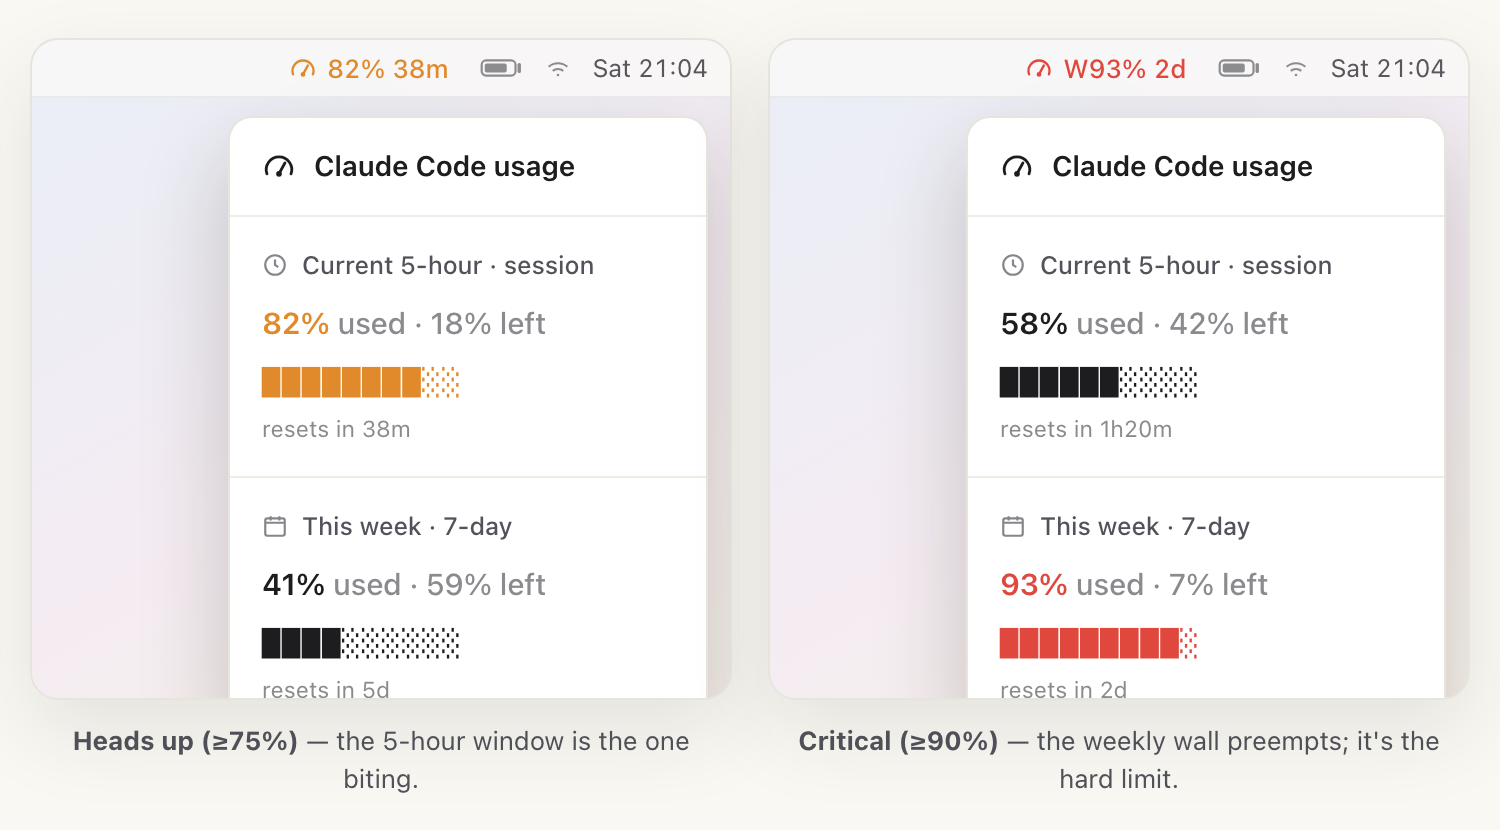
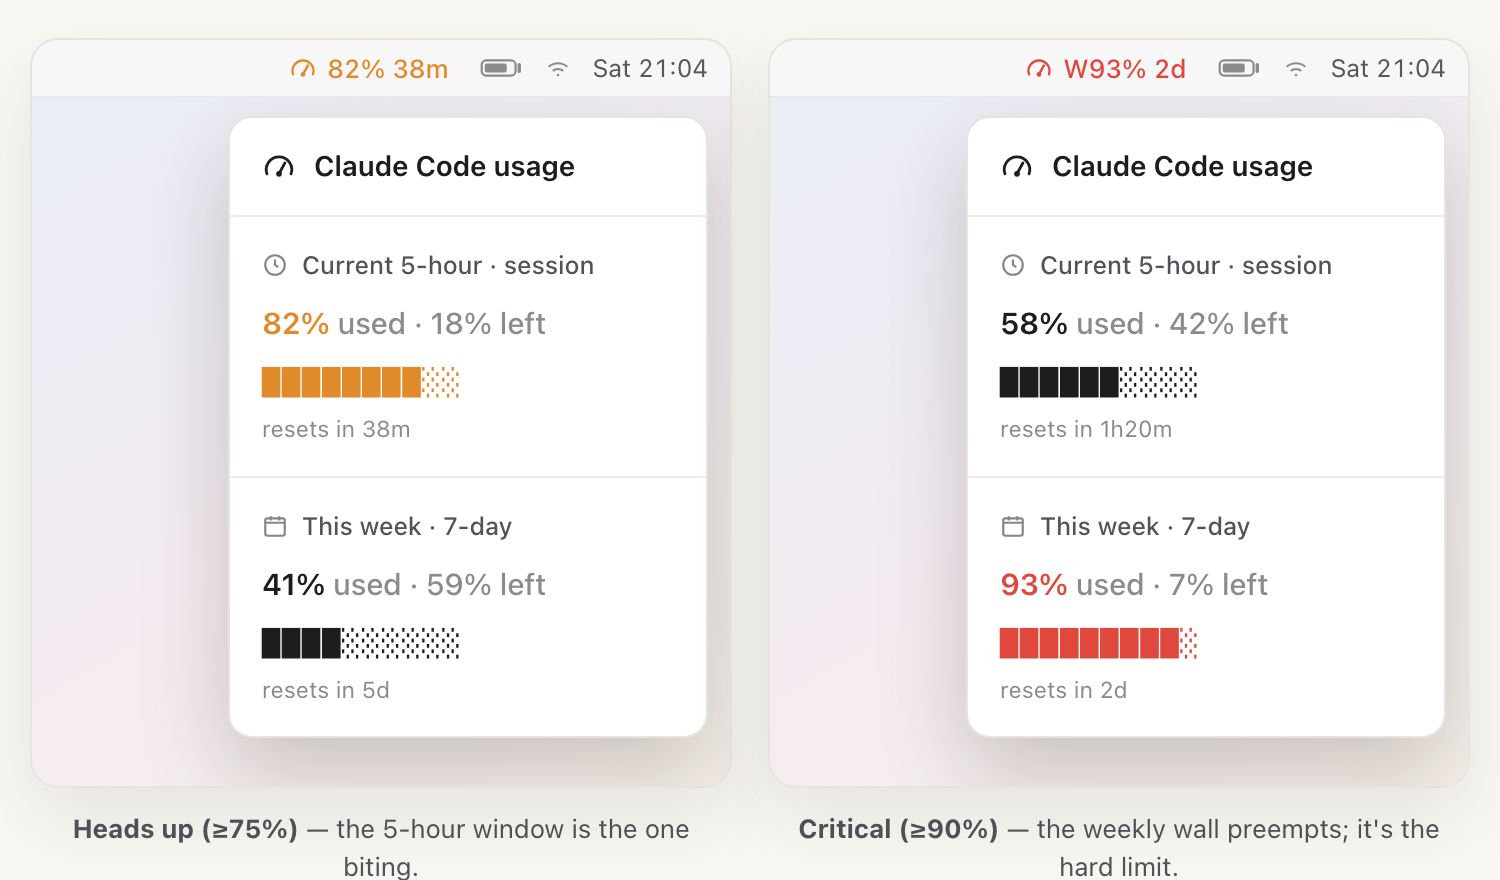
site: fix clipped state cards; lead with privacy, move feature details down
- taller mini-stage so the warning/critical dropdowns are no longer cut off
- swap sections: 'Built to be auditable' (the trust highlight) now leads; 'Why it's different' details moved below How-it-works
- drop the redundant 'Privacy first' feature card (covered by the privacy section)

diff --git a/site/index.html b/site/index.html
@@ -170,7 +170,7 @@
   .mini-bar .sysicon{opacity:.55}
   .mini-bar .clock{opacity:.82;font-variant-numeric:tabular-nums}
   .mini-bar .mbg{padding:2px 6px}
-  .mini-stage{position:relative;height:300px}
+  .mini-stage{position:relative;height:344px}
   @media(max-width:680px){.mini-stage{height:auto;padding-bottom:12px}}
   .mini-stage .dropdown{position:absolute;top:9px;right:11px;width:240px;box-shadow:0 18px 44px rgba(40,36,28,.22)}
   @media(max-width:680px){.mini-stage .dropdown{position:static;width:auto;margin:10px 11px 0;box-shadow:0 12px 30px rgba(40,36,28,.12)}}
@@ -420,50 +420,46 @@
   </div>
 </header>
 
-<!-- ============ FEATURES ============ -->
-<section id="features">
+<!-- ============ PRIVACY ============ -->
+<section id="privacy" class="privacy">
   <div class="wrap">
     <div class="sec-head">
-      <span class="eyebrow">Why it's different</span>
-      <h2>Small, honest, and out of your way</h2>
-      <p>It only speaks up when it matters — and when it does, it tells the truth.</p>
+      <span class="eyebrow">What it can and can't see</span>
+      <h2>Built to be auditable</h2>
+      <p>It's all readable bash and Python — nothing obfuscated, nothing hidden.</p>
     </div>
-    <div class="feat-grid">
+    <div class="priv-grid">
 
-      <div class="feat">
-        <span class="ico"><svg viewBox="0 0 24 24" fill="none" stroke="currentColor" stroke-width="2"><path d="M3.5 17.5a9 9 0 1 1 17 0"/><path d="M12 17.5 16.2 9.8"/><circle cx="12" cy="17.5" r="1.8" fill="currentColor"/></svg></span>
-        <h3>Status-aware minimalism</h3>
-        <p>When you have headroom it's silent — just the current 5-hour percentage, auto black/white to match your menu bar. Cross a threshold and it surfaces the window that's actually biting, with a color and a reset countdown.</p>
+      <div class="priv">
+        <span class="pico"><svg viewBox="0 0 24 24" fill="none" stroke="currentColor" stroke-width="2"><path d="M12 3 4 6v5c0 5 3.5 8 8 10 4.5-2 8-5 8-10V6Z"/><path d="m9 12 2 2 4-4"/></svg></span>
+        <div>
+          <h3>Token-only access</h3>
+          <p>Reads one OAuth token from the keychain entry <code>Claude Code-credentials</code> and sends it only to Anthropic, only to fetch usage.</p>
+        </div>
       </div>
 
-      <div class="feat">
-        <span class="ico"><svg viewBox="0 0 24 24" fill="none" stroke="currentColor" stroke-width="2"><path d="M21 12a9 9 0 1 1-3-6.7"/><path d="M21 3v6h-6"/><path d="M12 8v4l2.5 1.5"/></svg></span>
-        <h3>Self-healing tokens</h3>
-        <p>Claude Code doesn't refresh its keychain token while idle, so the usage API starts returning <code>401</code>. ClaudeGauge spots a near-expired token and runs one tiny headless <code>claude -p ok</code> from <code>/tmp</code> to renew it — so the gauge keeps working even when you've stepped away.</p>
+      <div class="priv">
+        <span class="pico"><svg viewBox="0 0 24 24" fill="none" stroke="currentColor" stroke-width="2"><path d="M2 12s3.5-7 10-7 10 7 10 7-3.5 7-10 7S2 12 2 12Z"/><path d="m4 4 16 16"/></svg></span>
+        <div>
+          <h3>Never reads your chats</h3>
+          <p>It never opens <code>~/.claude/projects</code>, your conversation logs, or any code file. Usage numbers only.</p>
+        </div>
       </div>
 
-      <div class="feat">
-        <span class="ico"><svg viewBox="0 0 24 24" fill="none" stroke="currentColor" stroke-width="2"><path d="M10.3 3.1a2 2 0 0 1 3.4 0l8 13.9a2 2 0 0 1-1.7 3H3.9a2 2 0 0 1-1.7-3Z"/><path d="M12 9v4M12 17h.01"/></svg></span>
-        <h3>Honestly stale</h3>
-        <p>If data is more than 15 minutes old, the title goes gray and grows a <code>~</code>, and the dropdown warns you. No tool lies to you with old numbers dressed up as live — ever.</p>
+      <div class="priv">
+        <span class="pico"><svg viewBox="0 0 24 24" fill="none" stroke="currentColor" stroke-width="2"><path d="m9 18-6-6 6-6M15 6l6 6-6 6"/></svg></span>
+        <div>
+          <h3>Open &amp; auditable</h3>
+          <p>Three short scripts in plain bash and Python — no minification, no binaries, no telemetry. Read every line before you run it.</p>
+        </div>
       </div>
 
-      <div class="feat">
-        <span class="ico"><svg viewBox="0 0 24 24" fill="none" stroke="currentColor" stroke-width="2"><rect x="4" y="10" width="16" height="11" rx="2"/><path d="M8 10V7a4 4 0 0 1 8 0v3"/></svg></span>
-        <h3>Privacy first</h3>
-        <p>It reads one OAuth token from your macOS keychain and calls one Anthropic usage endpoint — the same one behind <code>/usage</code>. It never opens <code>~/.claude/projects</code>, your conversations, or your code. No telemetry.</p>
-      </div>
-
-      <div class="feat">
-        <span class="ico"><svg viewBox="0 0 24 24" fill="none" stroke="currentColor" stroke-width="2"><rect x="3" y="4" width="18" height="14" rx="2"/><path d="M9 4v3a3 3 0 0 0 6 0V4"/></svg></span>
-        <h3>Notch-friendly</h3>
-        <p>On notched Macs the menu bar title stays under ~90px (about 11 characters). Go wider and the notch swallows your icon whole — so the display is engineered to stay short no matter the state.</p>
-      </div>
-
-      <div class="feat">
-        <span class="ico"><svg viewBox="0 0 24 24" fill="none" stroke="currentColor" stroke-width="2"><path d="M18 8a6 6 0 0 0-12 0c0 7-3 9-3 9h18s-3-2-3-9"/><path d="M13.7 21a2 2 0 0 1-3.4 0"/></svg></span>
-        <h3>Knows before you do</h3>
-        <p>A background agent polls on an adaptive schedule and fires a native macOS notification the moment you cross 75% or 90% — once per window, per cycle, so it nudges without nagging.</p>
+      <div class="priv">
+        <span class="pico"><svg viewBox="0 0 24 24" fill="none" stroke="currentColor" stroke-width="2"><path d="M9 11V7a3 3 0 0 1 6 0v4M5 11h14v9a1 1 0 0 1-1 1H6a1 1 0 0 1-1-1Z"/></svg></span>
+        <div>
+          <h3>MIT licensed</h3>
+          <p>Free to use, fork, and modify. Uninstall leaves your Claude Code credentials and data completely untouched.</p>
+        </div>
       </div>
 
     </div>
@@ -543,46 +539,44 @@
   </div>
 </section>
 
-<!-- ============ PRIVACY ============ -->
-<section id="privacy" class="privacy">
+<!-- ============ FEATURES ============ -->
+<section id="features">
   <div class="wrap">
     <div class="sec-head">
-      <span class="eyebrow">What it can and can't see</span>
-      <h2>Built to be auditable</h2>
-      <p>It's all readable bash and Python — nothing obfuscated, nothing hidden.</p>
+      <span class="eyebrow">Why it's different</span>
+      <h2>Small, honest, and out of your way</h2>
+      <p>It only speaks up when it matters — and when it does, it tells the truth.</p>
     </div>
-    <div class="priv-grid">
+    <div class="feat-grid">
 
-      <div class="priv">
-        <span class="pico"><svg viewBox="0 0 24 24" fill="none" stroke="currentColor" stroke-width="2"><path d="M12 3 4 6v5c0 5 3.5 8 8 10 4.5-2 8-5 8-10V6Z"/><path d="m9 12 2 2 4-4"/></svg></span>
-        <div>
-          <h3>Token-only access</h3>
-          <p>Reads one OAuth token from the keychain entry <code>Claude Code-credentials</code> and sends it only to Anthropic, only to fetch usage.</p>
-        </div>
+      <div class="feat">
+        <span class="ico"><svg viewBox="0 0 24 24" fill="none" stroke="currentColor" stroke-width="2"><path d="M3.5 17.5a9 9 0 1 1 17 0"/><path d="M12 17.5 16.2 9.8"/><circle cx="12" cy="17.5" r="1.8" fill="currentColor"/></svg></span>
+        <h3>Status-aware minimalism</h3>
+        <p>When you have headroom it's silent — just the current 5-hour percentage, auto black/white to match your menu bar. Cross a threshold and it surfaces the window that's actually biting, with a color and a reset countdown.</p>
       </div>
 
-      <div class="priv">
-        <span class="pico"><svg viewBox="0 0 24 24" fill="none" stroke="currentColor" stroke-width="2"><path d="M2 12s3.5-7 10-7 10 7 10 7-3.5 7-10 7S2 12 2 12Z"/><path d="m4 4 16 16"/></svg></span>
-        <div>
-          <h3>Never reads your chats</h3>
-          <p>It never opens <code>~/.claude/projects</code>, your conversation logs, or any code file. Usage numbers only.</p>
-        </div>
+      <div class="feat">
+        <span class="ico"><svg viewBox="0 0 24 24" fill="none" stroke="currentColor" stroke-width="2"><path d="M21 12a9 9 0 1 1-3-6.7"/><path d="M21 3v6h-6"/><path d="M12 8v4l2.5 1.5"/></svg></span>
+        <h3>Self-healing tokens</h3>
+        <p>Claude Code doesn't refresh its keychain token while idle, so the usage API starts returning <code>401</code>. ClaudeGauge spots a near-expired token and runs one tiny headless <code>claude -p ok</code> from <code>/tmp</code> to renew it — so the gauge keeps working even when you've stepped away.</p>
       </div>
 
-      <div class="priv">
-        <span class="pico"><svg viewBox="0 0 24 24" fill="none" stroke="currentColor" stroke-width="2"><path d="m9 18-6-6 6-6M15 6l6 6-6 6"/></svg></span>
-        <div>
-          <h3>Open &amp; auditable</h3>
-          <p>Three short scripts in plain bash and Python — no minification, no binaries, no telemetry. Read every line before you run it.</p>
-        </div>
+      <div class="feat">
+        <span class="ico"><svg viewBox="0 0 24 24" fill="none" stroke="currentColor" stroke-width="2"><path d="M10.3 3.1a2 2 0 0 1 3.4 0l8 13.9a2 2 0 0 1-1.7 3H3.9a2 2 0 0 1-1.7-3Z"/><path d="M12 9v4M12 17h.01"/></svg></span>
+        <h3>Honestly stale</h3>
+        <p>If data is more than 15 minutes old, the title goes gray and grows a <code>~</code>, and the dropdown warns you. No tool lies to you with old numbers dressed up as live — ever.</p>
       </div>
 
-      <div class="priv">
-        <span class="pico"><svg viewBox="0 0 24 24" fill="none" stroke="currentColor" stroke-width="2"><path d="M9 11V7a3 3 0 0 1 6 0v4M5 11h14v9a1 1 0 0 1-1 1H6a1 1 0 0 1-1-1Z"/></svg></span>
-        <div>
-          <h3>MIT licensed</h3>
-          <p>Free to use, fork, and modify. Uninstall leaves your Claude Code credentials and data completely untouched.</p>
-        </div>
+      <div class="feat">
+        <span class="ico"><svg viewBox="0 0 24 24" fill="none" stroke="currentColor" stroke-width="2"><rect x="3" y="4" width="18" height="14" rx="2"/><path d="M9 4v3a3 3 0 0 0 6 0V4"/></svg></span>
+        <h3>Notch-friendly</h3>
+        <p>On notched Macs the menu bar title stays under ~90px (about 11 characters). Go wider and the notch swallows your icon whole — so the display is engineered to stay short no matter the state.</p>
+      </div>
+
+      <div class="feat">
+        <span class="ico"><svg viewBox="0 0 24 24" fill="none" stroke="currentColor" stroke-width="2"><path d="M18 8a6 6 0 0 0-12 0c0 7-3 9-3 9h18s-3-2-3-9"/><path d="M13.7 21a2 2 0 0 1-3.4 0"/></svg></span>
+        <h3>Knows before you do</h3>
+        <p>A background agent polls on an adaptive schedule and fires a native macOS notification the moment you cross 75% or 90% — once per window, per cycle, so it nudges without nagging.</p>
       </div>
 
     </div>